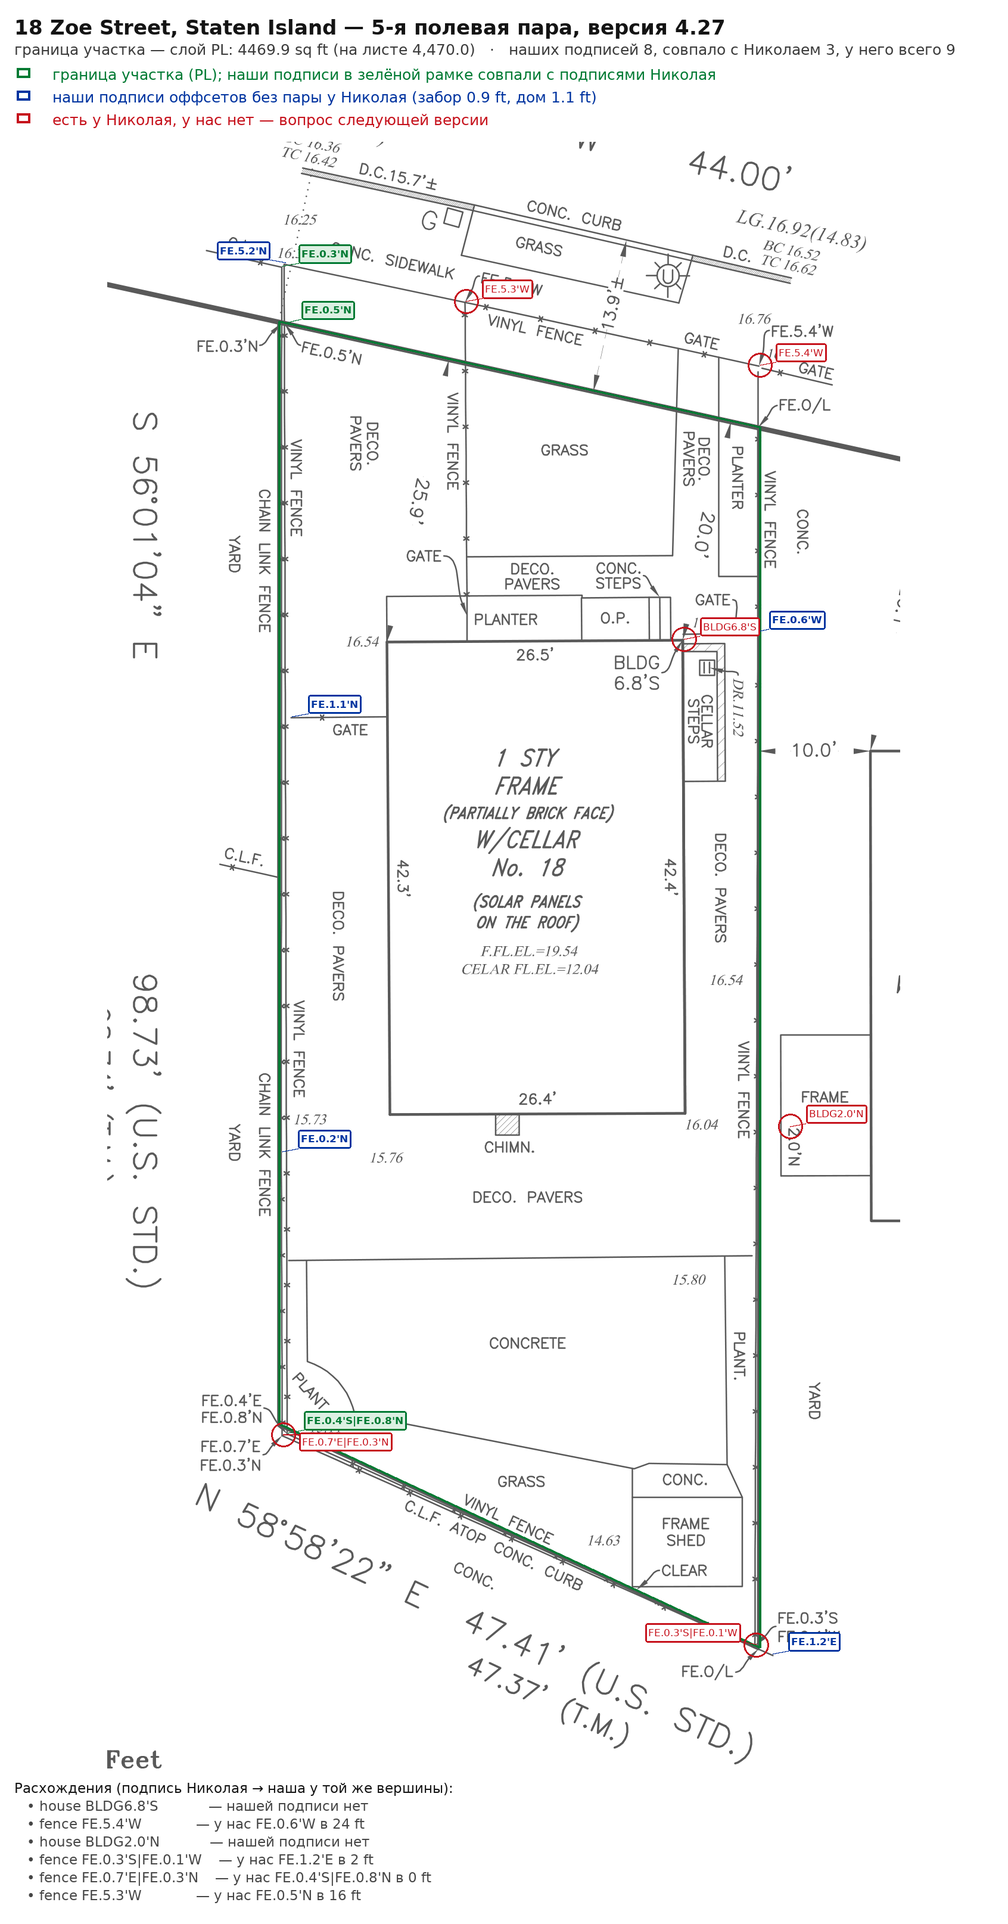
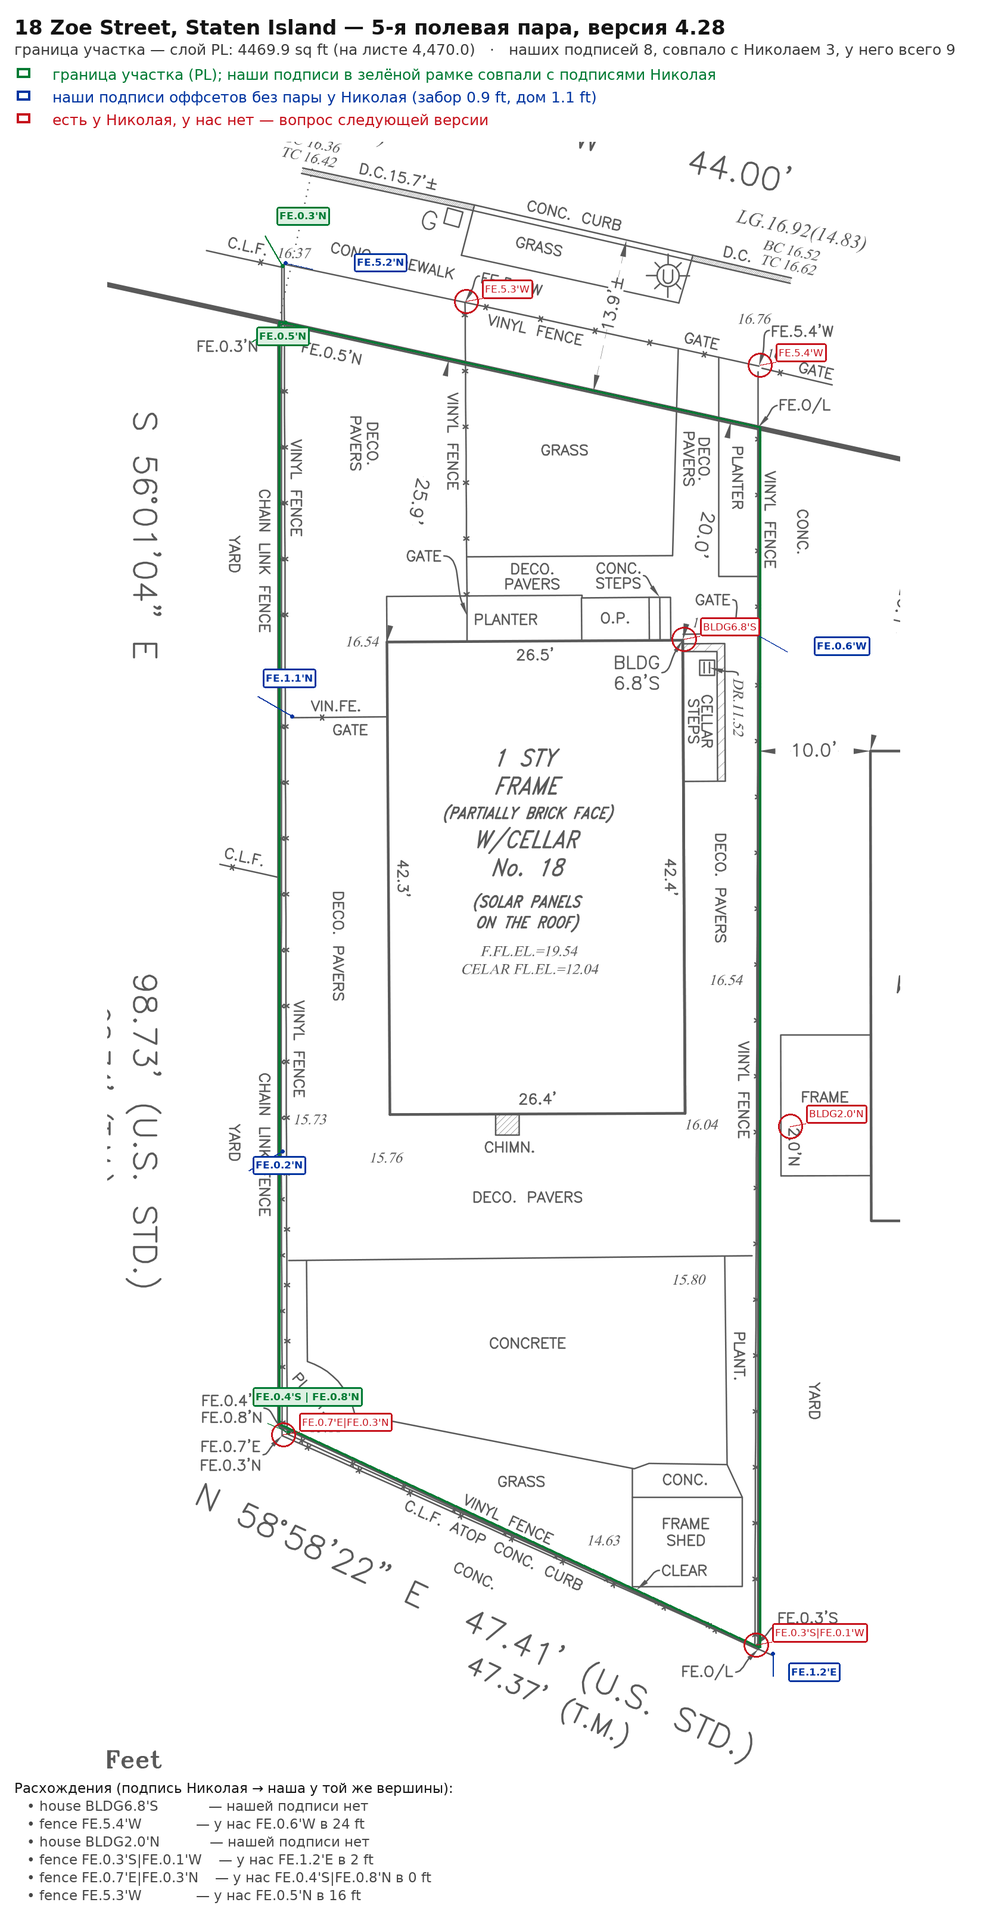
Шаг 4, 4.28: длина выноски оффсета — от 2 ft (R15)
* LEADER_DISTANCES_FT = (2.0, 2.6, 1.5, 1.0, 0.5, 0.0, 3.2): длинная выноска пробуется первой,
  короткие остались в конце на тесные места. У Николая длина выноски от острия стрелки до края
  блока — 2.61 (33 подписи забора: p10 2.06, p90 3.23, max 3.91) и 2.59 у дома; было 2.01.
* Замер после правки: подписей те же 63, совпадений те же 35, предупреждений 1, медиана 2.96,
  пересечений подписей с линиями 19 → 16, наложений на тексты 0.
* Порядок попыток важен: начать с 1.2–1.5 без коротких вариантов — минус две подписи (63 → 61,
  35 → 33), поэтому короткие оставлены последними.
* LINE_CLEARANCE_FT (просвет до линий) остаётся выключенным: с новой длиной выноски он стоит уже
  одной подписи (62 / 34) — решение за заказчиком.
* Картинка docs/step4_zoe_preview.png пересобрана: наши подписи теперь рисуются по фактическому
  месту вставки и с настоящей выноской (а не по вершине), версия в шапке — из version.py.
* Тесты: 1089 passed, 13 skipped (+1: длина выноски против эталона — медиана 2.3–3.3 и не больше
  25% коротких).

diff --git a/docs/make_zoe_preview.py b/docs/make_zoe_preview.py
@@ -34,8 +34,10 @@ ROOT = Path(__file__).resolve().parents[1]
 sys.path.insert(0, str(ROOT))
 sys.path.insert(0, str(ROOT / "tests"))
 
+from version import APP_VERSION  # noqa: E402
 from test_field_dump import (  # noqa: E402
-    _lot_polygon, _zip_name, field_plan, load_pair, nikolai_labels, plan_labels, score_labels,
+    _kind_of, _lot_polygon, _parts, _zip_name, field_plan, load_pair, nikolai_labels, plan_labels,
+    score_labels,
 )
 
 ZIP = ROOT / "docs" / "primer5i.zip"
@@ -151,7 +153,21 @@ def label_text(label) -> str:
 def main() -> None:
     before, after = load_pair(str(ZIP))
     data, _ = field_plan(before, after)
-    ours = plan_labels(data["plan"])
+    # Наши подписи вместе с готовым местом вставки: на картинке видно не только «что подписано»,
+    # но и где именно встанет текст и какой длины будет выноска.
+    ours = []
+    for item in data["plan"].items:
+        parts = _parts(item.text.replace("\n", " "))
+        if not parts:
+            continue
+        kinds = {_kind_of(label) for label, _v, _d in parts}
+        ours.append({
+            "kind": "fence" if "fence" in kinds else "wall" if "wall" in kinds else "house",
+            "parts": [(value, direction) for _l, value, direction in parts],
+            "anchor": (float(item.anchor[0]), float(item.anchor[1])),
+            "text": item.text,
+            "item": item,
+        })
     theirs = nikolai_labels(before, after)
     pairs = match_pairs(ours, theirs)
     matched_ours = {i for i, _ in pairs}
@@ -195,7 +211,7 @@ def main() -> None:
             for other in placed
         )
 
-    def place_label(anchor_px, text, colour, font_, *, ring: bool = False):
+    def place_label(anchor_px, text, colour, font_, *, ring: bool = False, lead: bool = True):
         """Плашка с подписью и поводок к точке: перебираем места, пока не встанет свободно."""
         x, y = anchor_px
         tw = draw.textlength(text, font=font_)
@@ -222,9 +238,10 @@ def main() -> None:
             best = candidates[0]
         placed.append(best)
         # поводок от точки до ближайшего края плашки
-        ex = min(max(x, best[0]), best[2])
-        ey = min(max(y, best[1]), best[3])
-        draw.line([(x, y), (ex, ey)], fill=colour, width=2)
+        if lead:
+            ex = min(max(x, best[0]), best[2])
+            ey = min(max(y, best[1]), best[3])
+            draw.line([(x, y), (ex, ey)], fill=colour, width=2)
         fill = (220, 240, 226) if colour == GREEN else "white"
         draw.rounded_rectangle(best, radius=4, fill=fill, outline=colour, width=3)
         draw.text((best[0] + pad, (best[1] + best[3]) / 2), text, font=font_, fill=colour, anchor="lm")
@@ -232,7 +249,12 @@ def main() -> None:
     for index, label in enumerate(ours):
         # Совпавшая с Николаем подпись — зелёная рамка, без пары — синяя.
         colour = GREEN if index in matched_ours else BLUE
-        place_label(px(label["anchor"]), label_text(label), colour, font_bold)
+        item = label["item"]
+        if item.leader:
+            start, end = px(item.leader[0]), px(item.leader[1])
+            draw.line([start, end], fill=colour, width=2)
+            draw.ellipse([start[0] - 3, start[1] - 3, start[0] + 3, start[1] + 3], fill=colour)
+        place_label(px(item.point), item.text.replace("\n", " | "), colour, font_bold, lead=False)
 
     for index, label in enumerate(theirs):
         if index in matched_theirs:
@@ -251,7 +273,7 @@ def main() -> None:
     body = ImageFont.truetype(FONT_PATH, 25)
     small = ImageFont.truetype(FONT_PATH, 23)
     hits = score_labels(ours, theirs)
-    title_text = "18 Zoe Street, Staten Island — 5-я полевая пара, версия 4.27"
+    title_text = f"18 Zoe Street, Staten Island — 5-я полевая пара, версия {APP_VERSION}"
     summary_text = (
         f"граница участка — слой PL: {area:.1f} sq ft (на листе 4,470.0)   ·   "
         f"наших подписей {len(ours)}, совпало с Николаем {hits}, у него всего {len(theirs)}"

diff --git a/tests/test_offsets_field_rules.py b/tests/test_offsets_field_rules.py
@@ -19,6 +19,9 @@
 * H17: лишних подписей — не больше 50% от подписей Николая того же вида (в сумме по трём файлам).
 """
 
+import math
+import statistics
+
 import pytest
 
 import offsets as off
@@ -581,9 +584,9 @@ def test_line_clearance_flag_keeps_text_off_the_lines():
     """
     `LINE_CLEARANCE_FT` (4.28) — просвет от текста подписи до линий чертежа, в высотах текста.
 
-    У Николая текст оффсета стоит от ближайшей линии на 0.71 (дом) и 1.60 (забор); у нас без правила
-    почти треть подписей прижимается к линиям ближе 0.1 ft. Правило **выключено** (0.0): включение
-    стоит двух подписей на пяти парах (63 → 61, совпадений 35 → 33), — но работает так, как задумано.
+    У Николая текст оффсета стоит от ближайшей линии на 0.71 (дом) и 1.60 (забор); у нас почти
+    треть подписей прижимается к линиям ближе 0.1 ft. Правило **выключено** (0.0): с ним прижатых
+    подписей меньше (19 → 14), но одна подпись перестаёт влезать (63 → 62, совпадений 35 → 34).
     Замер: `docs/step4_spatial_measure.py`.
     """
     assert off.LINE_CLEARANCE_FT == 0.0
@@ -594,9 +597,33 @@ def test_line_clearance_flag_keeps_text_off_the_lines():
         tight_close, tight_total, tight_worst = _touch_stats(paths)
     finally:
         off.LINE_CLEARANCE_FT = 0.0
-    assert loose_close > 20, loose_close
+    assert loose_close > 15, loose_close
     assert tight_close < loose_close
     assert tight_total <= loose_total
     # Ни на одном чертеже подпись не стала стоять ближе к линии, чем без правила.
     for path in paths:
         assert tight_worst[path] >= loose_worst[path] - 1e-9, path
+
+
+def test_leader_length_matches_the_customer():
+    """
+    R15 (4.28): длинная выноска оффсета пробуется первой.
+
+    У Николая длина выноски от острия стрелки до края блока — 2.61 ft по 33 подписям забора
+    (p10 2.06, p90 3.23, max 3.91) и 2.59 по шести подписям дома. Прежняя лестница начиналась с
+    0 ft и давала медиану 2.01: подписи жались к объекту, а слева-справа от них оставались
+    линии. Короткие варианты остались в конце — на тесные места, иначе две подписи на пяти
+    парах перестают влезать (63 → 61). Замер: docs/step4_spatial_measure.py.
+    """
+    assert off.LEADER_DISTANCES_FT[0] >= 2.0
+    assert off.LEADER_DISTANCES_FT[-1] == 0.0 or 0.0 in off.LEADER_DISTANCES_FT
+    lengths = []
+    for path in (PRIMER1, PRIMER2, PRIMER3, PRIMER4, PRIMER5):
+        before, after = load_pair(path)
+        data, _ = field_plan(before, after)
+        lengths += [math.dist(item.leader[0], item.leader[1])
+                    for item in data["plan"].items if item.leader]
+    # Медиана у него 2.61; допускаем 2.3–3.3, лишь бы не возвращаться к 2.0.
+    assert 2.3 <= statistics.median(lengths) <= 3.3
+    # У него десятая часть выносок короче 2.06 ft — у нас короткие тоже должны оставаться.
+    assert sum(1 for value in lengths if value < 2.2) / len(lengths) < 0.25

diff --git a/offsets.py b/offsets.py
@@ -59,7 +59,7 @@ FRONT_BOUNDARY_LAYER = "M-ROW-LINE"
 #: Линия расширения улицы по проекту — НЕ граница участка для оффсетов (ответ заказчика, 4.1).
 WIDENING_LINE_LAYER = "M-TAX-LINE"
 #: Версия каркаса шага 4 (для окна программы).
-STEP4_VERSION = "4.27"
+STEP4_VERSION = "4.28"
 #: Допуск совпадения координат двух дампов, футы.
 SAME_FRAME_TOL_FT = 0.01
 
@@ -381,11 +381,14 @@ AREA_EDGE_TOL_FT = 6.0
 LABEL_MUST_BE_INSIDE = False
 #: стены подписываются оффсетом по тому же правилу, что заборы (отсутствие подписи у заказчика — не запрет)
 WALL_OFFSETS = False
-#: Расстояние от объекта до текста выноски при 1"=16' (в порядке попыток), футы.
-#: Добавка к расстоянию «край блока + зазор» при поиске места выноски, футы.
-#: У Николая подпись стоит вплотную к концу выноски (2.7–3.5 ft от вершины при высоте 0.9),
-#: поэтому лестница короткая: 0, 0.5, 1.5, 3 ft.
-LEADER_DISTANCES_FT = (0.0, 0.5, 1.5, 3.0)
+#: Добавка к расстоянию «край блока + зазор» при поиске места выноски, футы (в порядке попыток).
+#: Замер по пяти парам (4.28): длина выноски у Николая — 2.61 ft от острия стрелки до края блока
+#: (33 подписи забора: p10 2.06, p90 3.23, max 3.91; дом с выноской — 2.59). Прежняя лестница
+#: 0, 0.5, 1.5, 3 ft начинала с самой короткой и давала медиану 2.01 — подписи жалась к объекту.
+#: Теперь длинная выноска пробуется первой, короткие остались в конце на тесные места: медиана
+#: 2.96 при тех же подписях (63) и совпадениях (35). Начать сразу с 1.2–1.5 ft нельзя — две
+#: подписи перестают влезать (63 → 61, 35 → 33). Замер: docs/step4_spatial_measure.py.
+LEADER_DISTANCES_FT = (2.0, 2.6, 1.5, 1.0, 0.5, 0.0, 3.2)
 #: Направления выноски относительно линии измерения, градусы; перпендикуляр пробуем первым.
 LEADER_ANGLES_DEG = (90, -90, 60, -60, 120, -120, 30, -30, 150, -150, 0, 180)
 #: Зазор текста до линии и выноски, доля высоты текста.

diff --git a/version.py b/version.py
@@ -9,9 +9,9 @@
 велись отдельно; с 3.0 номер общий.
 """
 
-APP_VERSION = "4.27"
+APP_VERSION = "4.28"
 #: Дата и время выпуска версии (местное время в Нью-Джерси). Меняются вместе с APP_VERSION.
 APP_DATE = "2026-11-19"
-APP_TIME = "09:40"
+APP_TIME = "11:20"
 #: Строка для шапки окна и отчётов: «2026-11-17 13:50».
 APP_STAMP = f"{APP_DATE} {APP_TIME}"

diff --git a/docs/step4_hypotheses.md b/docs/step4_hypotheses.md
@@ -813,12 +813,12 @@ Zoe 4469.9, Geldner 4132.0, Alvine 5694.4, Gaston 1112.5, Brooklyn 1041.5 sq ft.
 (`test_shipped_config_mirrors_feature_defaults`); картинка `docs/step4_zoe_preview.png`.
 
 
-## 4.28 (подготовка): замер пространственных правил по пяти листам
+## 4.28: длина выноски оффсета и замер пространственных правил по пяти листам
 
 Вопрос — что в расстановке оффсетов и их виде можно добавить или поправить. Ниже только то, что
 измерено по дампам (`docs/step4_spatial_measure.py`: 55 подписей Николая — 33 забора и 22 дома —
-против 63 наших на пяти парах). Версия ничего не меняет в поведении: добавлена одна выключенная
-константа и замер.
+против 63 наших на пяти парах). Включено одно правило — длина выноски; второе (просвет до линий)
+добавлено выключенным и ждёт решения.
 
 ### Что подтвердилось (не трогаем)
 
@@ -834,8 +834,8 @@ Zoe 4469.9, Geldner 4132.0, Alvine 5694.4, Gaston 1112.5, Brooklyn 1041.5 sq ft.
 
 | правило | сейчас | предложение | замер |
 |---|---|---|---|
-| `LEADER_DISTANCES_FT` (длина выноски) | (0.0, 0.5, 1.5, 3.0) — медиана 2.01 | начать с длинной: (2.0, 2.6, 1.5, 1.0, 0.5, 0.0, 3.2) | у Николая медиана **2.61** (p10 2.06, p90 3.23, max 3.91; дом — 2.59); новый порядок даёт 2.96 при тех же 63 подписях / 35 совпадениях / 1 предупреждении. Порядок обязателен: «1.2, 1.8, 0.5, 0.0, 2.8» теряет две подписи |
-| `LINE_CLEARANCE_FT` (просвет до линий) | 0.0 — только пересечение, медиана просвета 0.27 | 0.4–0.5 высоты | у него 1.60 (забор, p10 0.31) и 0.71 (дом, p10 0.49). Включение: просвет 0.78–0.83, но **−2 подписи** (61) и −2 совпадения (33), предупреждений 5 |
+| `LEADER_DISTANCES_FT` (длина выноски) | **(2.0, 2.6, 1.5, 1.0, 0.5, 0.0, 3.2)** — включено, медиана 2.96 | было (0.0, 0.5, 1.5, 3.0) — медиана 2.01 | у Николая медиана **2.61** (p10 2.06, p90 3.23, max 3.91; дом — 2.59). Подписей 63 (столько же), совпадений 35 (столько же), предупреждений 1, пересечений подписей с линиями **19 → 16**, наложений на тексты 0. Порядок обязателен: «1.2, 1.8, 0.5, 0.0, 2.8» теряет две подписи |
+| `LINE_CLEARANCE_FT` (просвет до линий) | 0.0 — только пересечение | 0.4–0.5 высоты — **решение за заказчиком** | у него 1.60 (забор, p10 0.31) и 0.71 (дом, p10 0.49). С новым `LEADER_DISTANCES_FT` включение стоит уже одной подписи (63 → 62, совпадений 35 → 34, предупреждений 1 → 4), прижатых подписей 19 → 14 |
 
 ### Что нужно спросить у Николая
 
